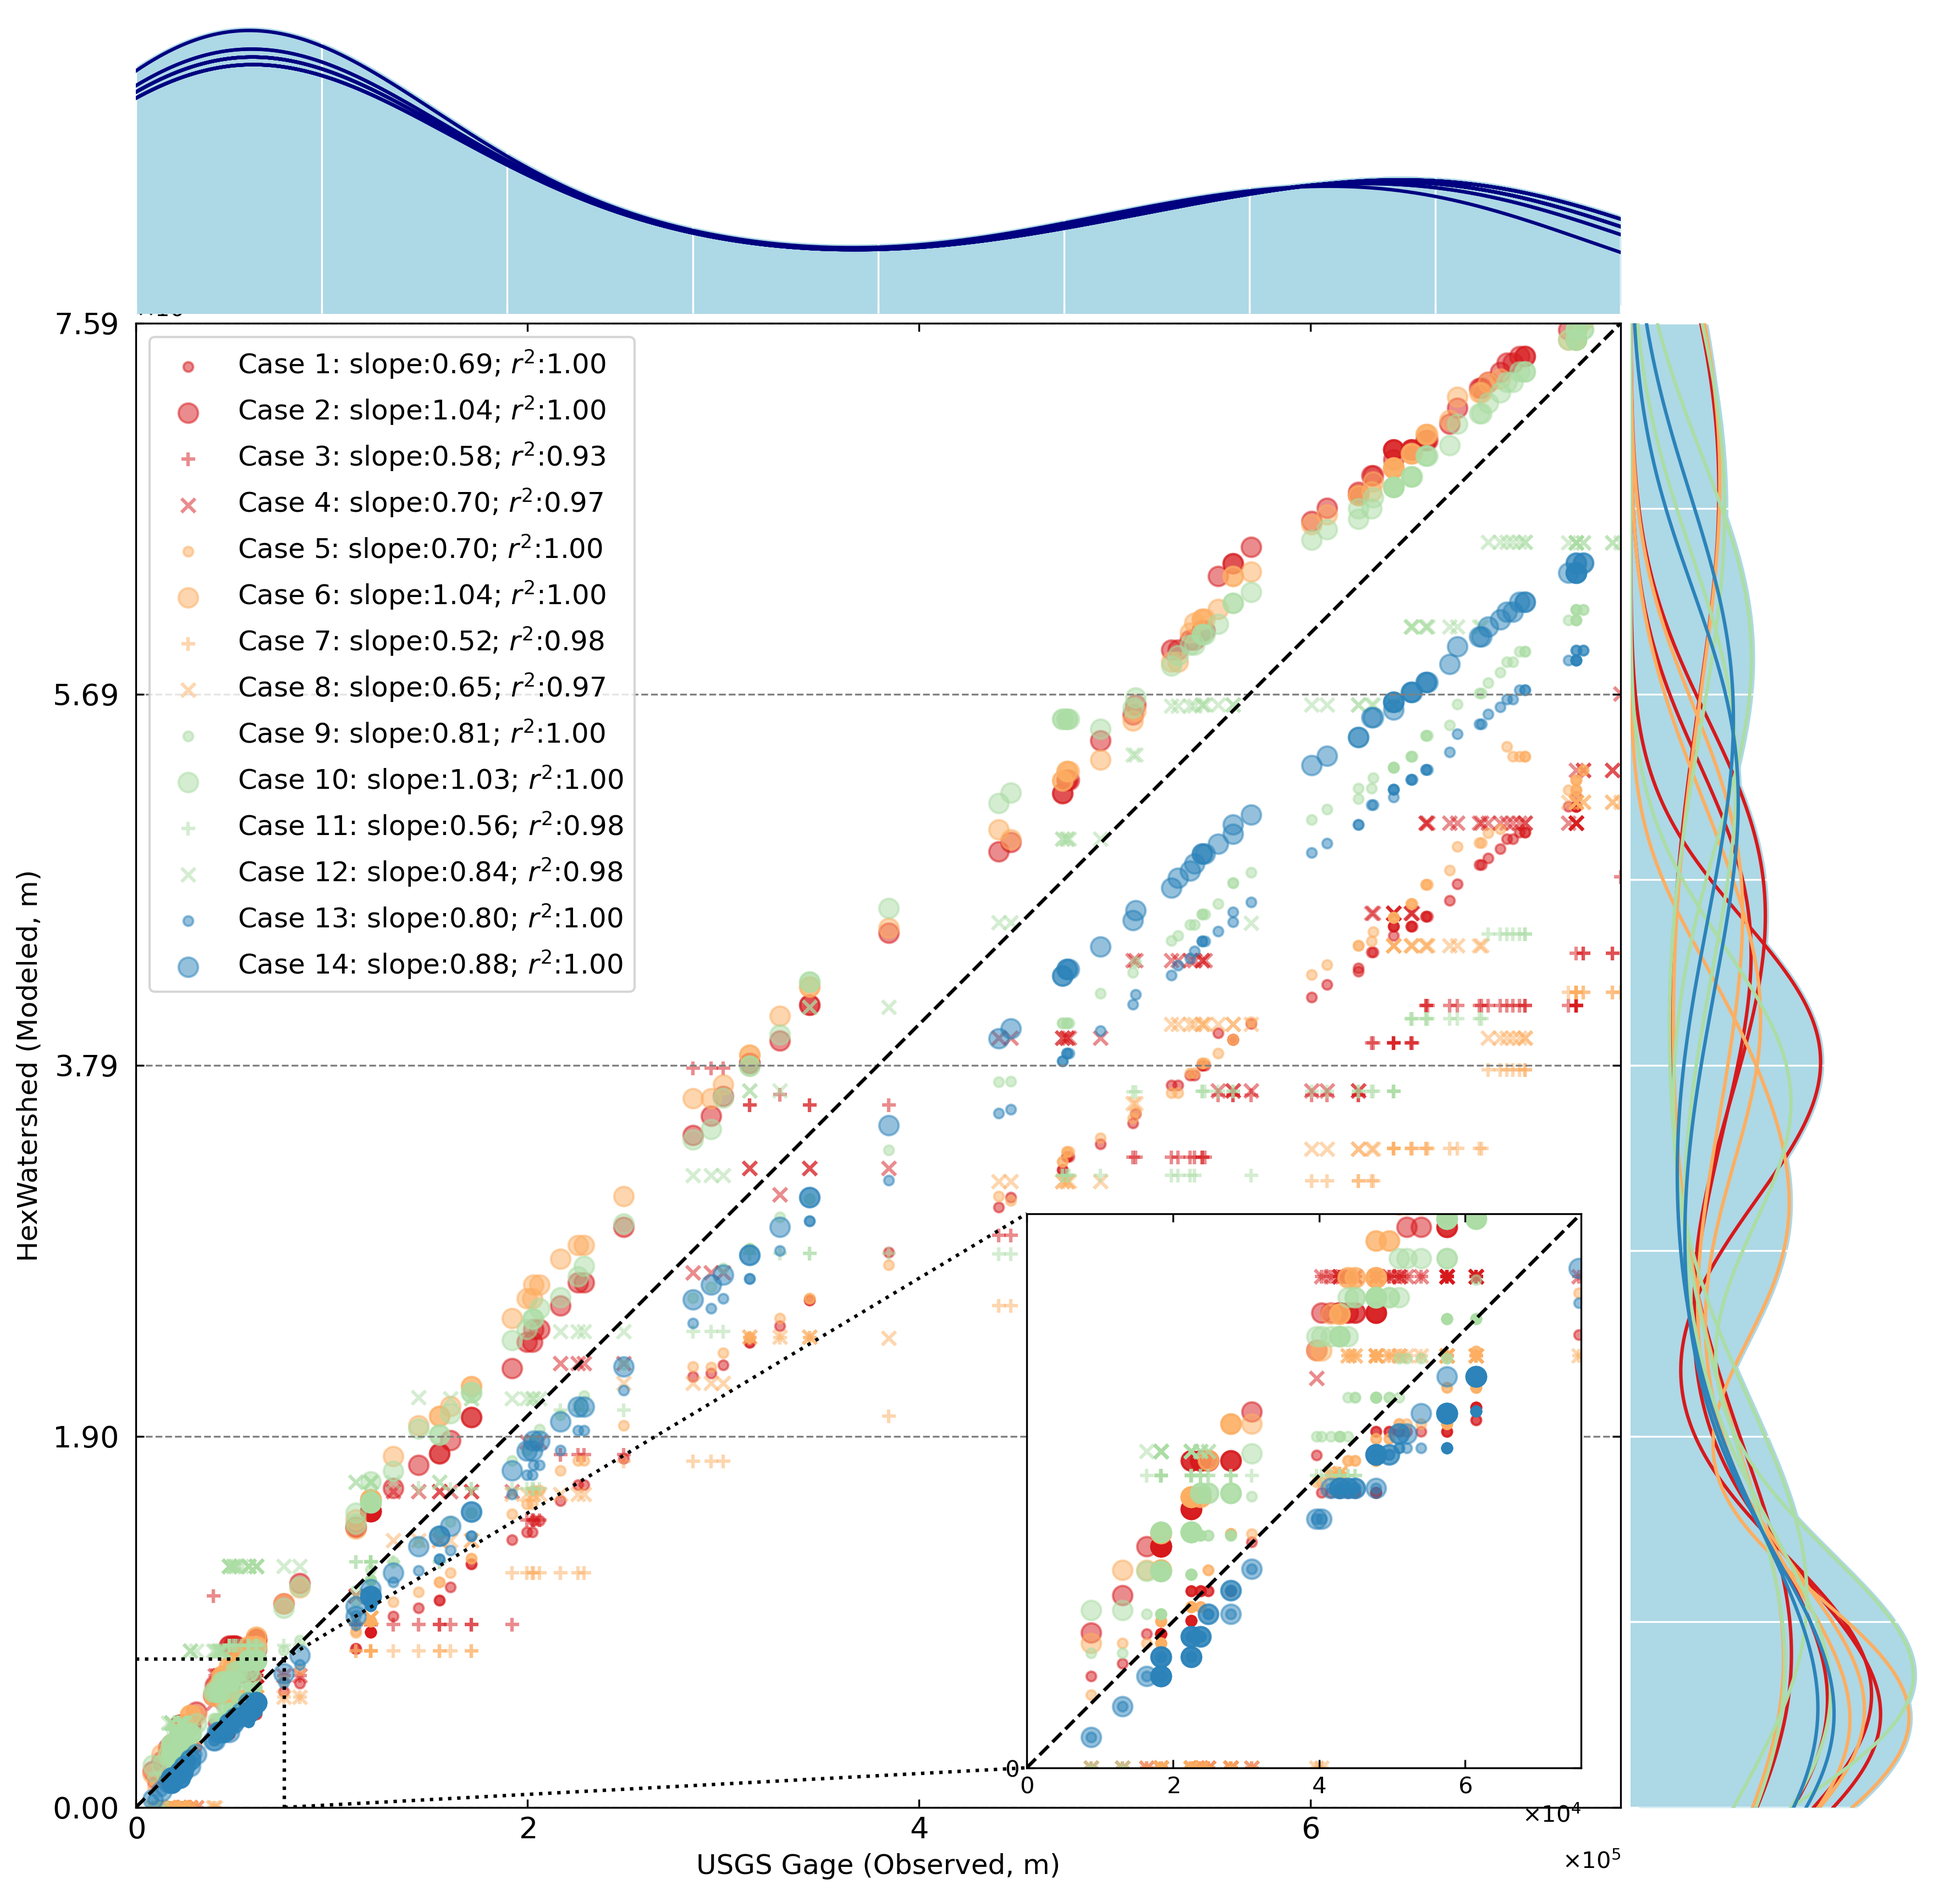
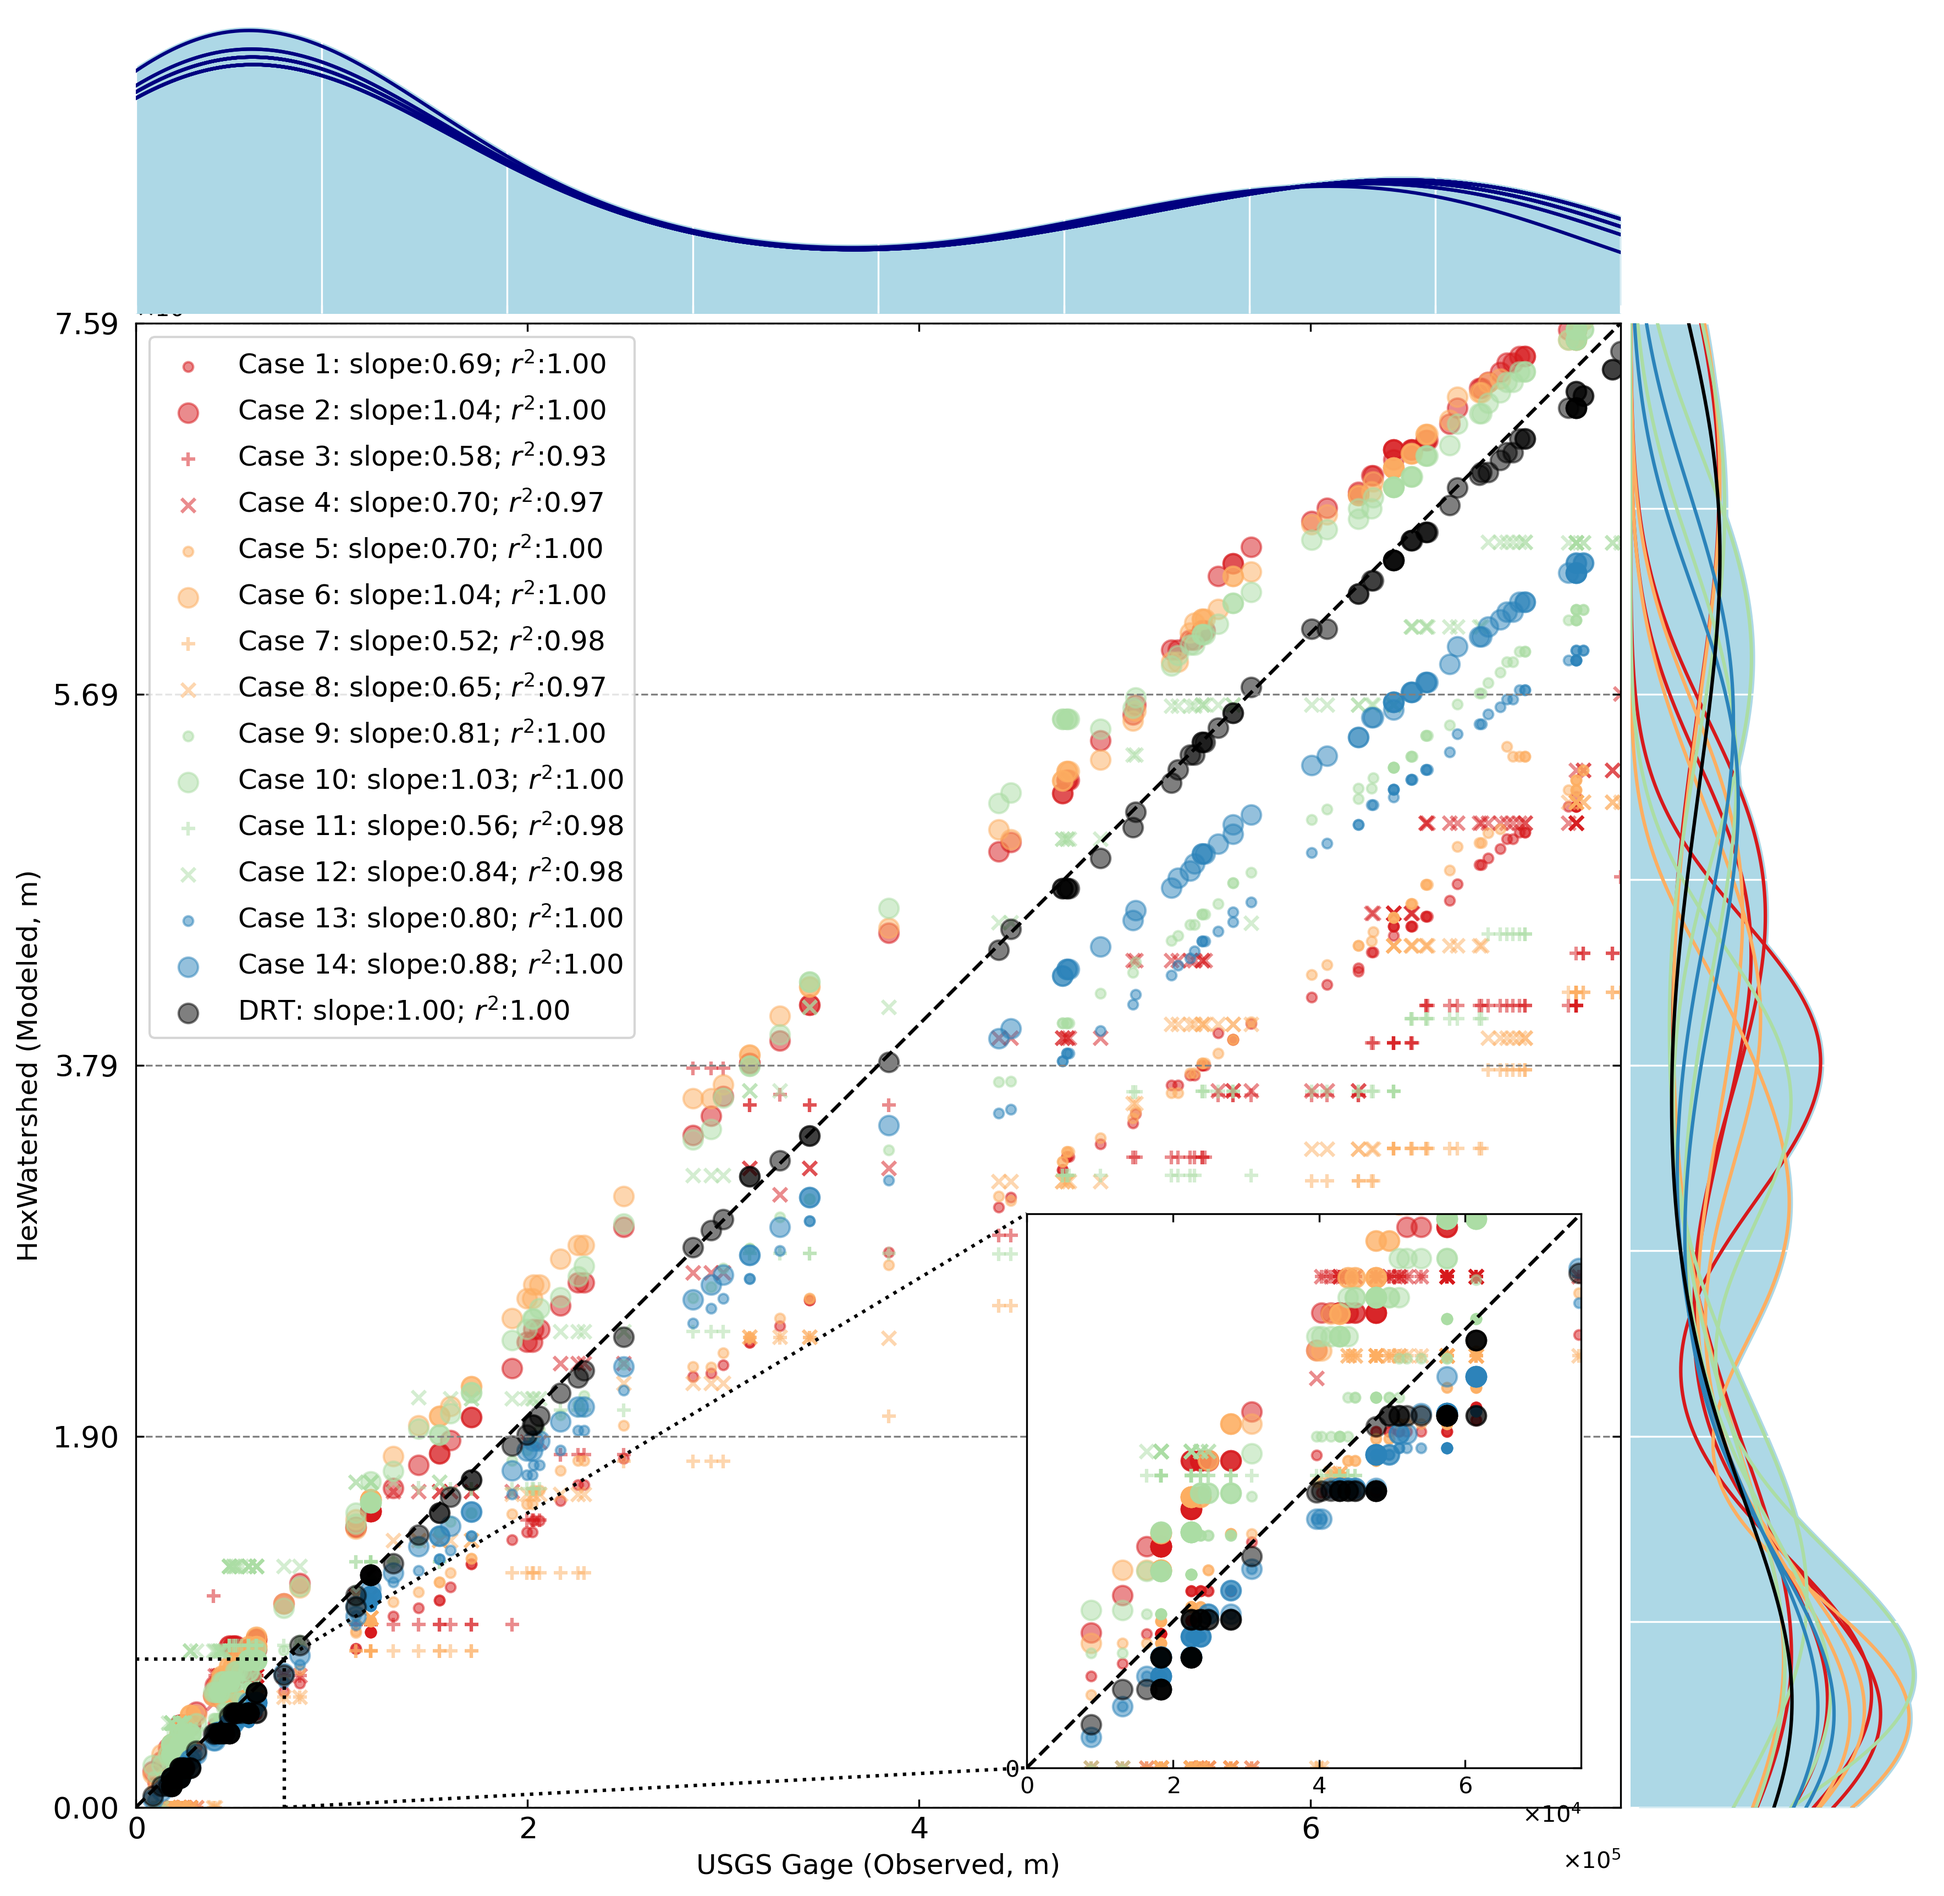
update figures

diff --git a/code/python/drt/create_drt_travel_distance.py b/code/python/drt/create_drt_travel_distance.py
@@ -1,0 +1,143 @@
+import os, sys, stat
+from pathlib import Path
+from os.path import realpath
+import json
+
+import numpy as np
+from osgeo import  osr, gdal, ogr
+from shapely.wkt import loads
+import matplotlib.pyplot as plt
+from pyearth.toolbox.reader.text_reader_string import text_reader_string
+from pyearth.gis.gdal.read.gdal_read_ascii_file import gdal_read_ascii_file
+from pyhexwatershed.pyhexwatershed_read_model_configuration_file import pyhexwatershed_read_model_configuration_file
+import matplotlib as mpl
+from pyflowline.formats.read_flowline import read_flowline_geojson
+from pyearth.visual.ladder.ladder_plot_xy_data import ladder_plot_xy_data
+from pyearth.visual.color.create_diverge_rgb_color_hex import create_diverge_rgb_color_hex
+# getting the data
+sPath_parent = str(Path(__file__).parents[3]) # data is located two dir's up
+print(sPath_parent)
+
+#the longest river channel on main
+
+#drt file
+sFilename_drt_fd = '/compyfs/liao313/00raw/drt/DRT_16th_FDR_globe.asc'
+sFilename_drt_dis = '/compyfs/liao313/00raw/drt/DRT_16th_FDISTANCE_globe.asc'
+
+a = gdal_read_ascii_file(sFilename_drt_fd)
+b = gdal_read_ascii_file(sFilename_drt_dis)
+
+aFlow_dir = a[0]
+aFlow_dis = b[0]
+ymax  = a[3]
+xmin=a[2]
+ysize =a[1]
+xsize =a[1]
+
+sFilename_site = sPath_parent + '/' + 'data/travel_distance' + '/' + 'site_location.geojson'
+pDriver = ogr.GetDriverByName('GeoJSON')
+pDataset_site = pDriver.Open(sFilename_site, gdal.GA_ReadOnly)
+pLayer_site = pDataset_site.GetLayer(0)
+pSrs = osr.SpatialReference()  
+pSrs.ImportFromEPSG(4326)    # WGS84 lat/lon
+
+nPoint = pLayer_site.GetFeatureCount()
+aDistance_niws=list()
+aTravel_distance= list()
+for i in range(nPoint):
+    pFeature= pLayer_site.GetFeature(i)
+    pGeometry_in = pFeature.GetGeometryRef()
+    sGeometry_type = pGeometry_in.GetGeometryName()
+    lID =0 
+    
+    if sGeometry_type =='POINT':
+        site_id = pFeature.GetField("identifier")        
+        headwater = loads( pGeometry_in.ExportToWkt() )       
+        #get the headwater latlon location
+        dLon = headwater.coords[0][0]
+        dLat = headwater.coords[0][1]
+        iRow = int((ymax - dLat) / ysize) + 1
+        iColumn = int((dLon - xmin) / xsize) + 1
+        #track
+        iDownslope =aFlow_dir[iRow-1, iColumn-1]
+
+        #obs
+        sFilename_geojson_in = sPath_parent + '/' + 'data/travel_distance' + '/downstreammain' + site_id+ '.geojson'
+        
+        aLine,pSpatial_reference  = read_flowline_geojson(sFilename_geojson_in)
+        dDistance_nwis = 0.0
+        for pLine in aLine:
+            dLength = pLine.dLength
+            dDistance_nwis = dDistance_nwis + dLength
+
+        aDistance_niws.append(dDistance_nwis)
+
+        #drt 
+        dDistance_line = aFlow_dis[iRow-1, iColumn-1]               
+        while iDownslope !=0:
+            if iDownslope == 1:
+                iRow= iRow
+                iColumn = iColumn + 1
+                iDownslope =aFlow_dir[iRow-1, iColumn-1]
+                dDistance_line = dDistance_line+ aFlow_dis[iRow-1, iColumn-1]
+            else:
+                if iDownslope == 2:
+                    iRow= iRow + 1
+                    iColumn = iColumn + 1
+                    iDownslope =aFlow_dir[iRow-1, iColumn-1]
+                    dDistance_line = dDistance_line+ aFlow_dis[iRow-1, iColumn-1]
+                else:
+                    if iDownslope == 4:
+                        iRow= iRow + 1
+                        iColumn = iColumn 
+                        iDownslope =aFlow_dir[iRow-1, iColumn-1]
+                        dDistance_line = dDistance_line+ aFlow_dis[iRow-1, iColumn-1]
+                    else:
+                        if iDownslope == 8:
+                            iRow= iRow + 1
+                            iColumn = iColumn -1
+                            iDownslope =aFlow_dir[iRow-1, iColumn-1]
+                            dDistance_line = dDistance_line+ aFlow_dis[iRow-1, iColumn-1]
+                            
+                        else:
+                            if iDownslope == 16:
+                                iRow= iRow 
+                                iColumn = iColumn - 1
+                                iDownslope =aFlow_dir[iRow-1, iColumn-1]
+                                dDistance_line = dDistance_line+ aFlow_dis[iRow-1, iColumn-1]
+                            else:
+                                if iDownslope == 32:
+                                    iRow= iRow - 1
+                                    iColumn = iColumn -1
+                                    iDownslope =aFlow_dir[iRow-1, iColumn-1]
+                                    dDistance_line = dDistance_line+ aFlow_dis[iRow-1, iColumn-1]
+                                else:
+                                    if iDownslope == 64:
+                                        iRow= iRow - 1
+                                        iColumn = iColumn 
+                                        iDownslope =aFlow_dir[iRow-1, iColumn-1]
+                                        dDistance_line = dDistance_line+ aFlow_dis[iRow-1, iColumn-1]
+                                    else:
+                                        if iDownslope == 128:
+                                            iRow= iRow - 1
+                                            iColumn = iColumn +1
+                                            iDownslope =aFlow_dir[iRow-1, iColumn-1]
+                                            dDistance_line = dDistance_line+ aFlow_dis[iRow-1, iColumn-1]
+                                        else:
+                                            print(iDownslope)
+                                            pass
+            pass
+        
+        #save 
+        aTravel_distance.append(dDistance_line)
+print(aDistance_niws)
+print(aTravel_distance)
+
+sFilename_out = sPath_parent + '/' + 'data/travel_distance' + '/' + 'drt_travel_distance.csv'
+print(sFilename_out)
+with open(sFilename_out, 'w') as f:
+    for i in range(nPoint):
+        sLine = "{:0f}".format(aDistance_niws[i]) + ',' + "{:0f}".format(aTravel_distance[i])  + '\n'
+        f.write(sLine)
+
+print('finished')

diff --git a/code/python/visual/scatterplot_travel_distance.py b/code/python/visual/scatterplot_travel_distance.py
@@ -6,6 +6,7 @@ import numpy as np
 from osgeo import  osr, gdal, ogr
 import matplotlib as mpl
 from pyearth.visual.scatter.scatter_plot_data import scatter_plot_data
+from pyearth.toolbox.reader.text_reader_string import text_reader_string
 from pyearth.visual.scatter.scatter_plot_multiple_data import scatter_plot_multiple_data
 
 from pyearth.visual.color.create_diverge_rgb_color_hex import create_diverge_rgb_color_hex
@@ -13,7 +14,7 @@ from pyhexwatershed.pyhexwatershed_read_model_configuration_file import pyhexwat
 from pyflowline.formats.read_flowline import read_flowline_geojson
 from shapely.wkt import loads
 from shapely.geometry import Point, Polygon
-sPath_parent = str(Path(__file__).parents[2]) # data is located two dir's up
+sPath_parent = str(Path(__file__).parents[3]) # data is located two dir's up
 print(sPath_parent)
 sPath_data = realpath( sPath_parent +  '/data/susquehanna' )
 sWorkspace_input =  str(Path(sPath_data)  /  'input')
@@ -49,7 +50,7 @@ for iCase_index in range(1, nCase+1):
         sFilename_mesh=   oPyhexwatershed.pPyFlowline.sFilename_mesh
         sWatershed = "{:04d}".format(iWatershed) 
         sWorkspace_watershed = sWorkspace_watershed =  os.path.join( sWorkspace_output_hexwatershed,  sWatershed )
-        sFilename_json = os.path.join(sWorkspace_output_hexwatershed ,   'travel_distance.geojson')
+        sFilename_json = os.path.join(sWorkspace_watershed ,   'travel_distance.geojson')
         pDriver = ogr.GetDriverByName('GeoJSON')
         pDataset = pDriver.Open(sFilename_json, gdal.GA_ReadOnly)
         pLayer = pDataset.GetLayer(0)
@@ -171,9 +172,9 @@ sFilename_out = sPath_parent + '/' + 'figures' + '/' + 'scatterplot_travel_dista
 #                      sLabel_legend_in = 'Susquehanna river basin',\
 #                      sTitle_in = 'Travel distance')
 
-aColor = np.full(14, None, dtype=object)
-aMarker= np.full(14, None, dtype=object)
-aSize = np.full(14, None, dtype=object)
+aColor = np.full(15, None, dtype=object)
+aMarker= np.full(15, None, dtype=object)
+aSize = np.full(15, None, dtype=object)
 
 nmesh=4
 aColor0= create_diverge_rgb_color_hex(nmesh)
@@ -190,6 +191,22 @@ for i in range(nCase):
     else:
         aSize[i] = mpl.rcParams['lines.markersize'] ** 2 
 
+
+#read drt csv
+
+sFilename_drt = sPath_parent + '/' + 'data/travel_distance' + '/' + 'drt_travel_distance.csv'
+a =  text_reader_string(sFilename_drt,cDelimiter_in=',')
+aX_obs= a[:,0].astype(float)
+aY_obs= a[:,1].astype(float)
+aX_obs = np.reshape(aX_obs, len(aX_obs))
+aY_obs = np.reshape(aY_obs, len(aY_obs))
+
+aData_x.append(aX_obs) #all obs 
+aData_y.append(aY_obs)
+aColor[14] = '#000000'
+aMarker[14]= 'o'
+aSize[14] = mpl.rcParams['lines.markersize'] ** 2 * 2
+aLabel_legend.append('DRT')
 
 
 scatter_plot_multiple_data(aData_x, \
